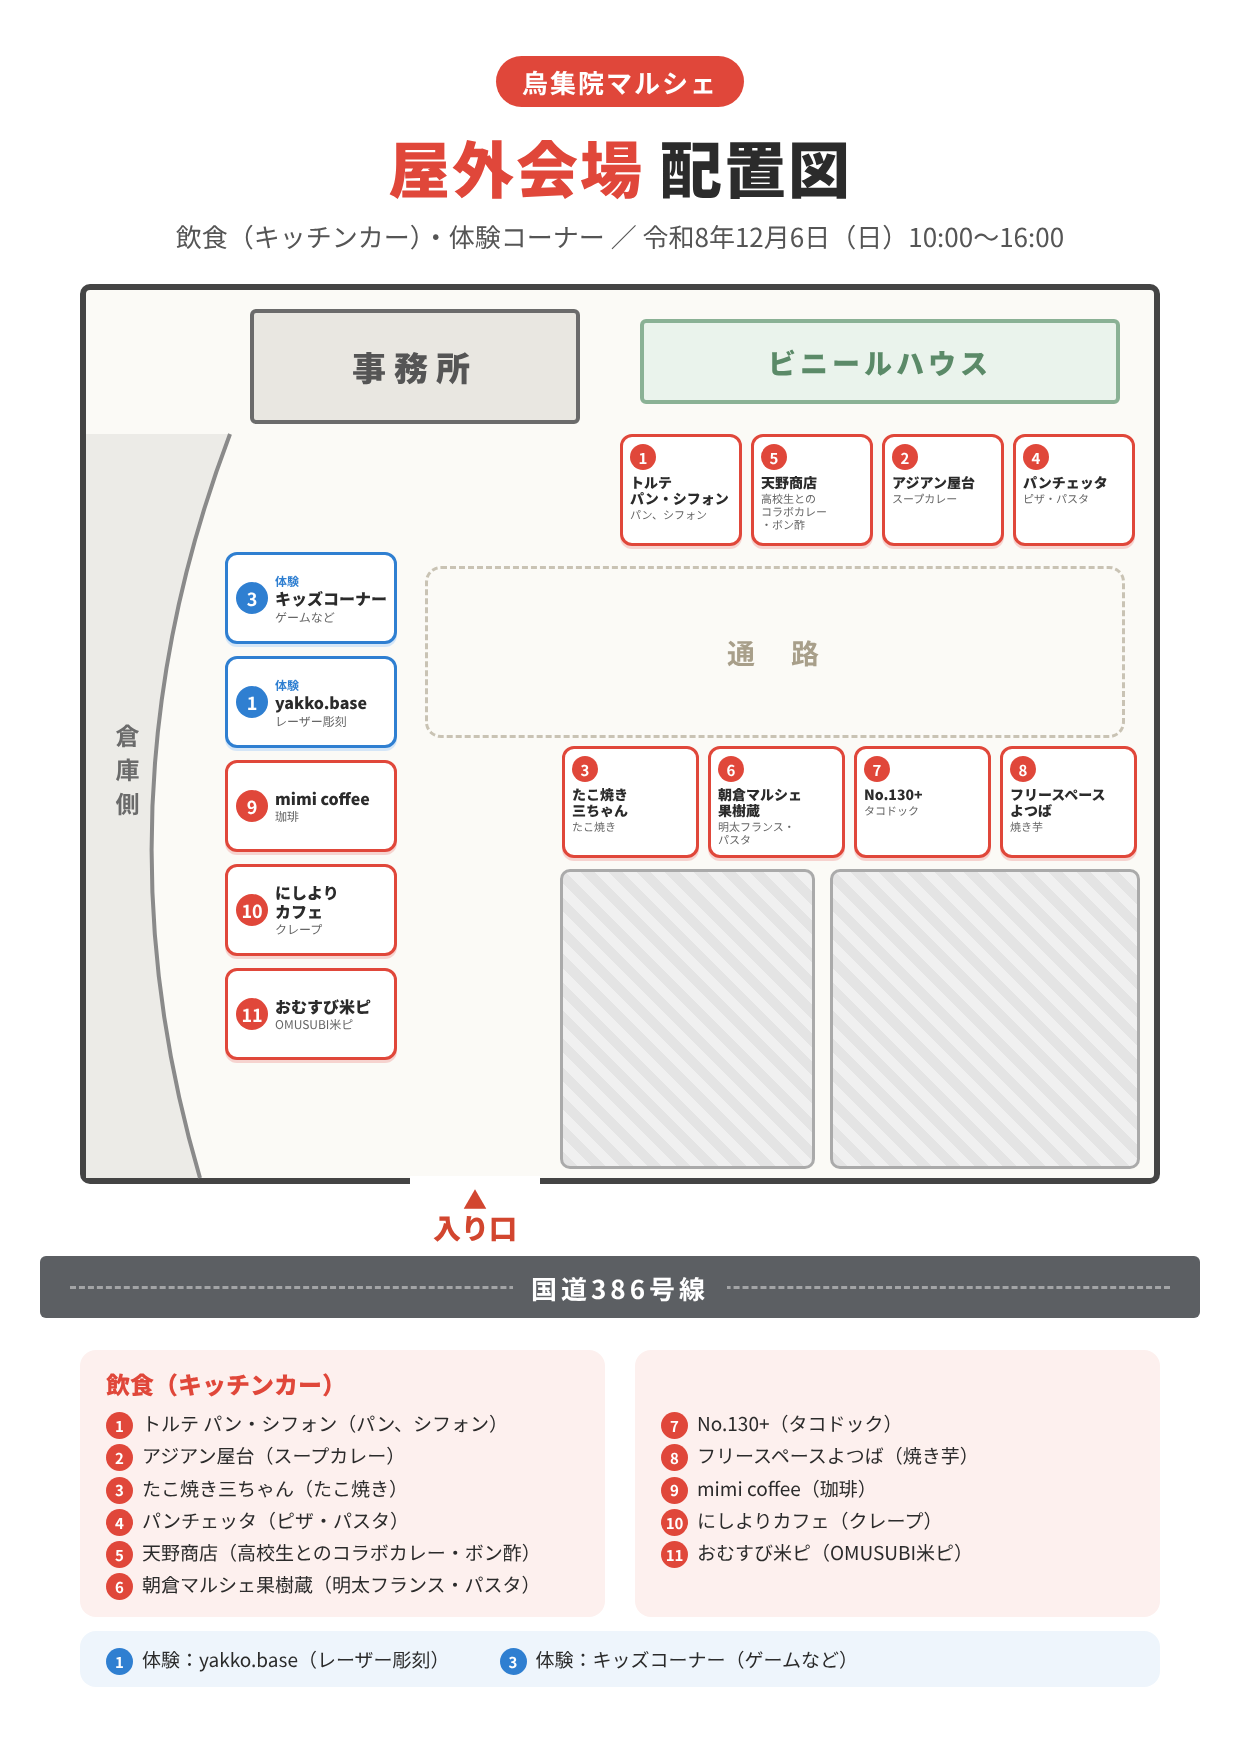
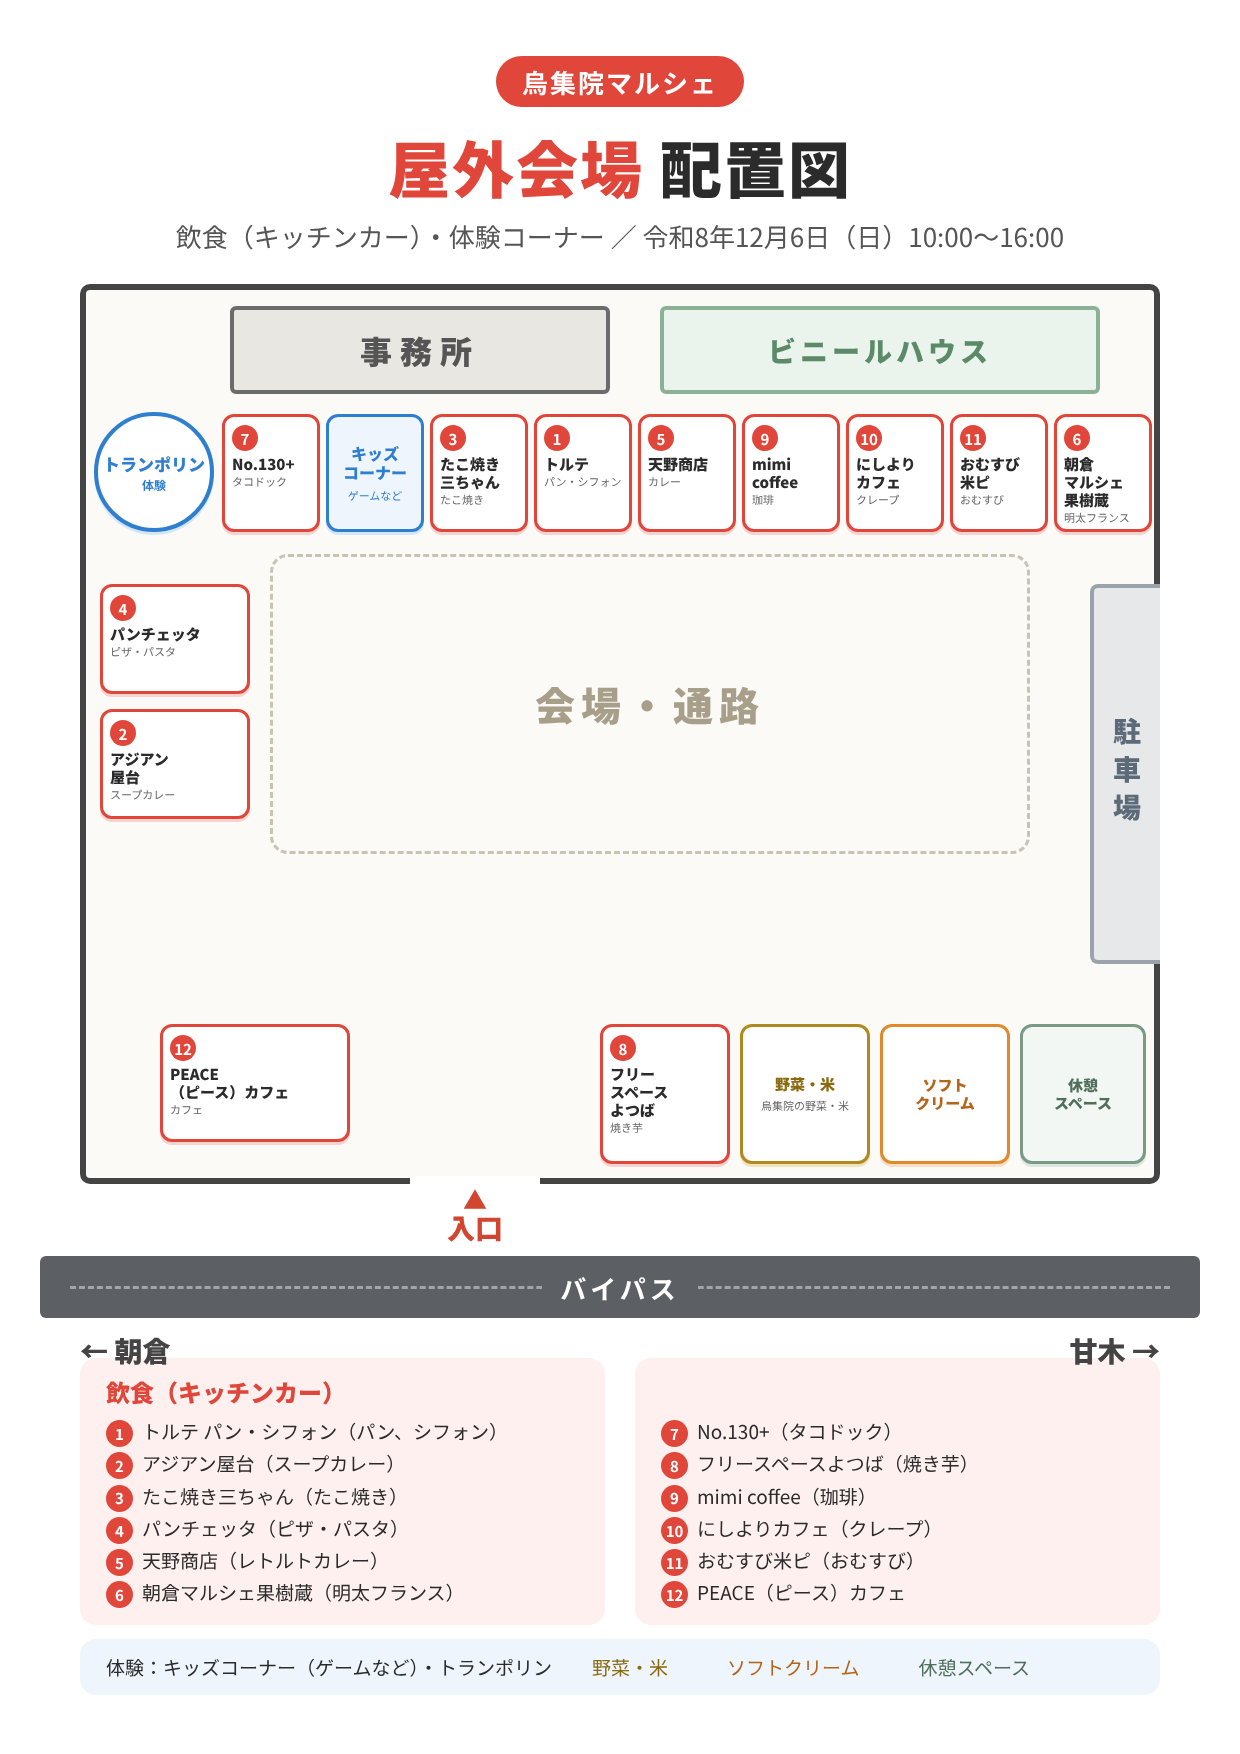
飲食12番にPEACE（ピース）カフェを追加し、屋外会場の配置図を新レイアウトに
- 一覧・詳細・Instagramリンクを追加、店舗数を26店に更新
- いただいた配置案に合わせて屋外会場の配置図を描き直し（表記は烏集院）

Claude-Session: https://claude.ai/code/session_011pUcFc16a5G2h6Svb8AjQK

diff --git a/index.html b/index.html
@@ -4,7 +4,7 @@
 <meta charset="utf-8">
 <meta name="viewport" content="width=device-width, initial-scale=1, viewport-fit=cover">
 <meta name="color-scheme" content="light">
-<meta name="description" content="12月6日（日）は烏集院マルシェへ。ごはんとおやつ、手づくり雑貨、キッズコーナーなど全25店。親子で楽しむ日曜日。10:00〜16:00／旧 半田瓦商店跡地。">
+<meta name="description" content="12月6日（日）は烏集院マルシェへ。ごはんとおやつ、手づくり雑貨、キッズコーナーなど全26店。親子で楽しむ日曜日。10:00〜16:00／旧 半田瓦商店跡地。">
 <link rel="icon" href="data:,">
 <title>烏集院マルシェ｜親子でおいしい、たのしい日曜日。</title>
 <link rel="preconnect" href="https://fonts.googleapis.com">
@@ -26,7 +26,7 @@
       <p class="eyebrow">朝倉・烏集院で、よりみちしよう。</p>
       <h1>親子で<span class="accent">おいしい、</span><br><span class="accent">たのしい</span>日曜日。</h1>
       <p class="welcome">ごはんと、手づくりの宝もの。<br>家族みんなで、よりみちしよう。</p>
-      <div class="hero-actions"><a class="pill" href="#shops">25のお店を見てみる</a><a class="pill secondary" href="#kids">親子のお楽しみ</a></div>
+      <div class="hero-actions"><a class="pill" href="#shops">26のお店を見てみる</a><a class="pill secondary" href="#kids">親子のお楽しみ</a></div>
     </div>
     <div class="hero-art">
       <img class="hero-img" src="images/market-illustration.jpg" alt="雑貨のテント、野菜の屋台、キッチンカーが並ぶマルシェの水彩イラスト" width="1600" height="600" fetchpriority="high">
@@ -67,27 +67,27 @@
 
 
 
-  <div class="list-heading" id="shops"><p class="section-kicker">お店をめぐって、いい出会い。</p><h2 class="section-title"><span>25のお店で、</span><span>待っています。</span></h2><p class="section-intro">気になるお店をタップして、のぞいてみてね。</p></div>
+  <div class="list-heading" id="shops"><p class="section-kicker">お店をめぐって、いい出会い。</p><h2 class="section-title"><span>26のお店で、</span><span>待っています。</span></h2><p class="section-intro">気になるお店をタップして、のぞいてみてね。</p></div>
   <div class="controls">
     <label class="search">
       <svg width="18" height="18" viewBox="0 0 24 24" fill="none" stroke="currentColor" stroke-width="2.2" stroke-linecap="round" aria-hidden="true"><circle cx="11" cy="11" r="7"/><path d="m20 20-3.5-3.5"/></svg>
       <input id="q" type="search" placeholder="店名・食べたいものを検索" aria-label="出店者を検索">
     </label>
     <div class="tabs" role="group" aria-label="カテゴリで絞り込み">
-      <button type="button" class="tab" data-filter="all" aria-pressed="true">すべて <span class="k">25</span></button>
-      <button type="button" class="tab" data-filter="food" aria-pressed="false"><span class="d" aria-hidden="true"></span>飲食 <span class="k">11</span></button>
+      <button type="button" class="tab" data-filter="all" aria-pressed="true">すべて <span class="k">26</span></button>
+      <button type="button" class="tab" data-filter="food" aria-pressed="false"><span class="d" aria-hidden="true"></span>飲食 <span class="k">12</span></button>
       <button type="button" class="tab" data-filter="handmade" aria-pressed="false"><span class="d" aria-hidden="true"></span>ハンドメイド <span class="k">8</span></button>
       <button type="button" class="tab" data-filter="experience" aria-pressed="false"><span class="d" aria-hidden="true"></span>体験 <span class="k">3</span></button>
       <button type="button" class="tab" data-filter="farm" aria-pressed="false"><span class="d" aria-hidden="true"></span>野菜・米・その他 <span class="k">3</span></button>
     </div>
-    <p class="result-line" id="resultLine" aria-live="polite">全25件を表示中</p>
+    <p class="result-line" id="resultLine" aria-live="polite">全26件を表示中</p>
   </div>
 
   <p class="swipe-hint">写真のあるお店はタップで詳細へ。Instagramもチェックできます。</p>
   <div id="list">
 
     <section class="cat cat-food" data-cat="food">
-      <div class="cat-head"><h2>飲食</h2><a class="place" href="#map-okugai">屋外会場</a><span class="count"><b>11</b>店</span></div>
+      <div class="cat-head"><h2>飲食</h2><a class="place" href="#map-okugai">屋外会場</a><span class="count"><b>12</b>店</span></div>
       <ul class="rows">
         <li class="row" data-text="トルテ パン・シフォン パン シフォン"><span class="no">1</span><div><div class="name">トルテ パン・シフォン</div><div class="item">パン、シフォン</div></div></li>
         <li class="row" data-text="アジアン屋台 スープカレー"><span class="no">2</span><div><div class="name">アジアン屋台</div><div class="item">スープカレー</div></div></li>
@@ -100,6 +100,7 @@
         <li class="row" data-text="mimi coffee 珈琲 コーヒー"><span class="no">9</span><div><div class="name">mimi coffee</div><div class="item">珈琲</div></div></li>
         <li class="row" data-text="NiSHiYOR! café にしよりカフェ クレープ"><span class="no">10</span><div><div class="name">にしよりカフェ</div><div class="item">クレープ</div></div></li>
         <li class="row" data-text="おむすび米ピ OMUSUBI米ピ"><span class="no">11</span><div><div class="name">おむすび米ピ</div><div class="item">OMUSUBI米ピ</div></div></li>
+        <li class="row" data-text="PEACE ピース ピースカフェ カフェ"><span class="no">12</span><div><div class="name">PEACE（ピース）カフェ</div><div class="item">カフェ</div></div></li>
       </ul>
     </section>
 
@@ -160,7 +161,7 @@
     <p class="sec-note">番号は出店者一覧の番号と同じです。画像をタップすると大きく見られます。</p>
     <div class="map-grid">
       <figure class="map-card" id="map-okugai">
-        <a href="images/haichi-okugai.png" target="_blank" rel="noopener"><img loading="lazy" decoding="async" src="images/haichi-okugai.png" alt="屋外会場の配置図。ビニールハウス前に飲食1・5・2・4、その向かいに飲食3・6・7・8、事務所前は通路、倉庫側に体験3・体験1と飲食9〜11。国道386号線側が入り口。" width="1240" height="1754"></a>
+        <a href="images/haichi-okugai.png" target="_blank" rel="noopener"><img loading="lazy" decoding="async" src="images/haichi-okugai.png" alt="屋外会場の配置図。事務所とビニールハウスの前に、トランポリン、飲食7、キッズコーナー、飲食3・1・5・9・10・11・6が横一列。左側に飲食4・2、右側に駐車場。入口の左に飲食12、右に飲食8、野菜・米、ソフトクリーム、休憩スペース。バイパス側が入口。" width="1240" height="1754"></a>
         <figcaption><b>屋外会場</b><span>飲食・体験①③</span><em>拡大する</em></figcaption>
       </figure>
       <figure class="map-card" id="map-jimusho">
@@ -217,7 +218,7 @@
   var resultLine=document.getElementById('resultLine');
   var empty=document.getElementById('empty');
   var tabs=[].slice.call(document.querySelectorAll('.tab'));
-  var TOTAL=25;
+  var TOTAL=26;
 
   function apply(){
     var keyword=q.value.trim().toLowerCase();
@@ -234,7 +235,7 @@
       sec.classList.toggle('hidden',secVisible===0);
     });
     empty.classList.toggle('show',visible===0);
-    resultLine.textContent=(visible===TOTAL)?'全25件を表示中':visible+'件を表示中（全25件）';
+    resultLine.textContent=(visible===TOTAL)?'全26件を表示中':visible+'件を表示中（全26件）';
     tabs.forEach(function(b){b.setAttribute('aria-pressed',b.getAttribute('data-filter')===currentFilter?'true':'false');});
   }
   tabs.forEach(function(b){
@@ -243,7 +244,7 @@
 
   /* ---- 店舗の詳細 ---- */
   var IMG={"yocchan": "images/shops/yocchan.jpg", "nishiyori": "images/shops/nishiyori.jpg", "amano": "images/shops/amano.jpg", "asian": "images/shops/asian.jpg", "baba": "images/shops/baba.jpg", "inaba": "images/shops/inaba.jpg", "ishii": "images/shops/ishii.jpg", "kaetsu": "images/shops/kaetsu.jpg", "kajuzo": "images/shops/kajuzo.jpg", "mimi": "images/shops/mimi.jpg", "naomi": "images/shops/naomi.jpg", "ninomiya": "images/shops/ninomiya.jpg", "no130": "images/shops/no130.jpg", "omusubi": "images/shops/omusubi.jpg", "pancetta": "images/shops/pancetta.jpg", "plusca": "images/shops/plusca.jpg", "rie": "images/shops/rie.jpg", "shiokawa": "images/shops/shiokawa.jpg", "takoyaki": "images/shops/takoyaki.jpg", "torte": "images/shops/torte.jpg", "toya": "images/shops/toya.jpg", "toys": "images/shops/toys.jpg", "yakko": "images/shops/yakko.jpg", "yotsuba": "images/shops/yotsuba.jpg", "keika": "images/shops/keika.jpg"};
-  var SHOPS={"food-1": {"img": ["torte"], "title": "TORTE〜トルテ〜", "desc": ["塩こうじごはん", "シフォンケーキ"], "place": "okugai"}, "food-2": {"img": ["asian"], "title": "アジアン屋台", "desc": ["スープカレー"], "place": "okugai", "ig": "asian_yatai"}, "food-3": {"img": ["takoyaki"], "title": "たこ焼き三ちゃん", "desc": ["たこ焼き"], "place": "okugai", "ig": "takoyaki_sanchan"}, "food-4": {"img": ["pancetta"], "title": "パンチェッタ", "desc": ["ピザ・パスタ"], "place": "okugai", "ig": "pancetta2007"}, "food-5": {"img": ["amano"], "title": "天野商店", "desc": ["レトルトカレー"], "place": "okugai", "ig": "amanoshouten_mz"}, "food-6": {"img": ["kajuzo"], "title": "朝倉マルシェ果樹蔵", "desc": ["明太フランス"], "place": "okugai", "ig": "kajyukura.fan"}, "food-7": {"img": ["no130"], "title": "NO.130+", "desc": ["名物 タコドック"], "place": "okugai", "ig": "no.130purasu"}, "food-8": {"img": ["yotsuba"], "title": "フリースペースよつば", "desc": ["焼き芋"], "place": "okugai"}, "food-9": {"img": ["mimi"], "title": "mimicoffee", "desc": ["淹れたてコーヒー"], "place": "okugai"}, "food-10": {"img": ["nishiyori"], "title": "NiSHiYOR! café\nにしよりカフェ", "desc": ["クレープ"], "note": "朝倉の食材を使ったやさしい味", "place": "okugai", "ig": "nishiyoricafe"}, "food-11": {"img": ["omusubi"], "title": "OMUSUBI米ピ", "desc": ["こだわりのおむすび"], "place": "okugai", "ig": "omusubi_komepi"}, "hand-1": {"img": ["plusca"], "title": "Ring with PLUsCA", "desc": ["アクセサリー", "手作り小物"], "place": "jimusho"}, "hand-2": {"img": ["toya"], "title": "遠矢さん", "desc": ["手作りバッグ"], "place": "jimusho"}, "hand-3": {"img": ["shiokawa"], "title": "塩川さん", "desc": ["手作り小物"], "place": "jimusho"}, "hand-4": {"img": ["yakko"], "title": "yakko.base", "desc": ["レーザー彫刻", "手作り小物"], "place": "jimusho"}, "hand-5": {"img": ["ishii"], "title": "石井さん", "desc": ["手作り小物"], "place": "jimusho"}, "hand-6": {"img": ["keika"], "title": "恵華（けいか）", "desc": ["心の書"], "note": "一文字に想いを込めて。あなたの心にそっと寄り添う字を見つけてください。額の中はお好きなものに交換可能です。", "place": "jimusho", "ig": "a594ni"}, "hand-7": {"img": ["rie"], "title": "りえ＆ひとみ", "desc": ["洋服・雑貨"], "note": "洋服・靴・バッグなどなど掘り出し物あります！見に来てね☆", "place": "jimusho"}, "exp-1": {"img": ["yakko"], "title": "yakko.base", "desc": ["レーザー彫刻", "手作り小物"], "place": "okugai"}, "exp-2": {"img": ["baba"], "title": "馬場さん", "desc": ["スマホコーティング"], "place": "jimusho", "ig": "tomo1959taka"}, "exp-3": {"img": ["naomi", "toys"], "title": "なおみ（キッズコーナー）", "desc": ["キッズコーナー"], "note": "ストラップ制作などなど お楽しみに 100円", "place": "okugai"}, "farm-1": {"img": ["inaba"], "title": "稲葉さん", "desc": ["烏集院の野菜・お米"]}, "farm-2": {"img": ["kaetsu"], "title": "嘉悦さん", "desc": ["多肉植物"]}, "farm-3": {"img": ["ninomiya"], "title": "二宮さん", "desc": ["なす"]}, "hand-8": {"img": ["yocchan"], "title": "ヨッちゃんマーケット", "desc": ["ハンドメイドリース", "レディース古着"], "note": "Flea Market（フリーマーケット）", "place": "jimusho"}};
+  var SHOPS={"food-1": {"img": ["torte"], "title": "TORTE〜トルテ〜", "desc": ["塩こうじごはん", "シフォンケーキ"], "place": "okugai"}, "food-2": {"img": ["asian"], "title": "アジアン屋台", "desc": ["スープカレー"], "place": "okugai", "ig": "asian_yatai"}, "food-3": {"img": ["takoyaki"], "title": "たこ焼き三ちゃん", "desc": ["たこ焼き"], "place": "okugai", "ig": "takoyaki_sanchan"}, "food-4": {"img": ["pancetta"], "title": "パンチェッタ", "desc": ["ピザ・パスタ"], "place": "okugai", "ig": "pancetta2007"}, "food-5": {"img": ["amano"], "title": "天野商店", "desc": ["レトルトカレー"], "place": "okugai", "ig": "amanoshouten_mz"}, "food-6": {"img": ["kajuzo"], "title": "朝倉マルシェ果樹蔵", "desc": ["明太フランス"], "place": "okugai", "ig": "kajyukura.fan"}, "food-7": {"img": ["no130"], "title": "NO.130+", "desc": ["名物 タコドック"], "place": "okugai", "ig": "no.130purasu"}, "food-8": {"img": ["yotsuba"], "title": "フリースペースよつば", "desc": ["焼き芋"], "place": "okugai"}, "food-9": {"img": ["mimi"], "title": "mimicoffee", "desc": ["淹れたてコーヒー"], "place": "okugai"}, "food-10": {"img": ["nishiyori"], "title": "NiSHiYOR! café\nにしよりカフェ", "desc": ["クレープ"], "note": "朝倉の食材を使ったやさしい味", "place": "okugai", "ig": "nishiyoricafe"}, "food-11": {"img": ["omusubi"], "title": "OMUSUBI米ピ", "desc": ["こだわりのおむすび"], "place": "okugai", "ig": "omusubi_komepi"}, "hand-1": {"img": ["plusca"], "title": "Ring with PLUsCA", "desc": ["アクセサリー", "手作り小物"], "place": "jimusho"}, "hand-2": {"img": ["toya"], "title": "遠矢さん", "desc": ["手作りバッグ"], "place": "jimusho"}, "hand-3": {"img": ["shiokawa"], "title": "塩川さん", "desc": ["手作り小物"], "place": "jimusho"}, "hand-4": {"img": ["yakko"], "title": "yakko.base", "desc": ["レーザー彫刻", "手作り小物"], "place": "jimusho"}, "hand-5": {"img": ["ishii"], "title": "石井さん", "desc": ["手作り小物"], "place": "jimusho"}, "hand-6": {"img": ["keika"], "title": "恵華（けいか）", "desc": ["心の書"], "note": "一文字に想いを込めて。あなたの心にそっと寄り添う字を見つけてください。額の中はお好きなものに交換可能です。", "place": "jimusho", "ig": "a594ni"}, "hand-7": {"img": ["rie"], "title": "りえ＆ひとみ", "desc": ["洋服・雑貨"], "note": "洋服・靴・バッグなどなど掘り出し物あります！見に来てね☆", "place": "jimusho"}, "exp-1": {"img": ["yakko"], "title": "yakko.base", "desc": ["レーザー彫刻", "手作り小物"], "place": "okugai"}, "exp-2": {"img": ["baba"], "title": "馬場さん", "desc": ["スマホコーティング"], "place": "jimusho", "ig": "tomo1959taka"}, "exp-3": {"img": ["naomi", "toys"], "title": "なおみ（キッズコーナー）", "desc": ["キッズコーナー"], "note": "ストラップ制作などなど お楽しみに 100円", "place": "okugai"}, "farm-1": {"img": ["inaba"], "title": "稲葉さん", "desc": ["烏集院の野菜・お米"]}, "farm-2": {"img": ["kaetsu"], "title": "嘉悦さん", "desc": ["多肉植物"]}, "farm-3": {"img": ["ninomiya"], "title": "二宮さん", "desc": ["なす"]}, "hand-8": {"img": ["yocchan"], "title": "ヨッちゃんマーケット", "desc": ["ハンドメイドリース", "レディース古着"], "note": "Flea Market（フリーマーケット）", "place": "jimusho"}, "food-12": {"img": [], "title": "PEACE（ピース）カフェ", "desc": ["カフェ"], "place": "okugai", "ig": "peace20170620_"}};
   var PREFIX={food:'food',handmade:'hand',experience:'exp',farm:'farm'};
   var CATNAME={food:'飲食',handmade:'ハンドメイド',experience:'体験コーナー',farm:'野菜・米・植物'};
   var dlg=document.getElementById('shop'), lastRow=null;
